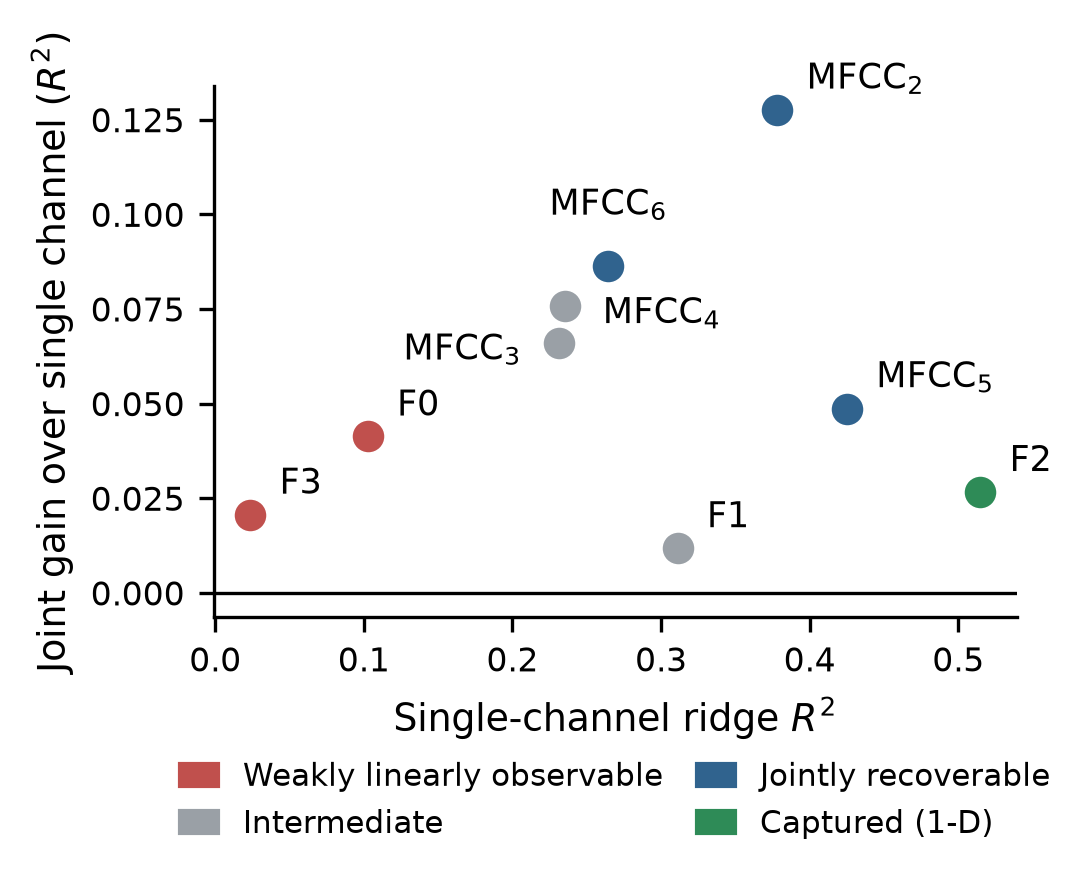
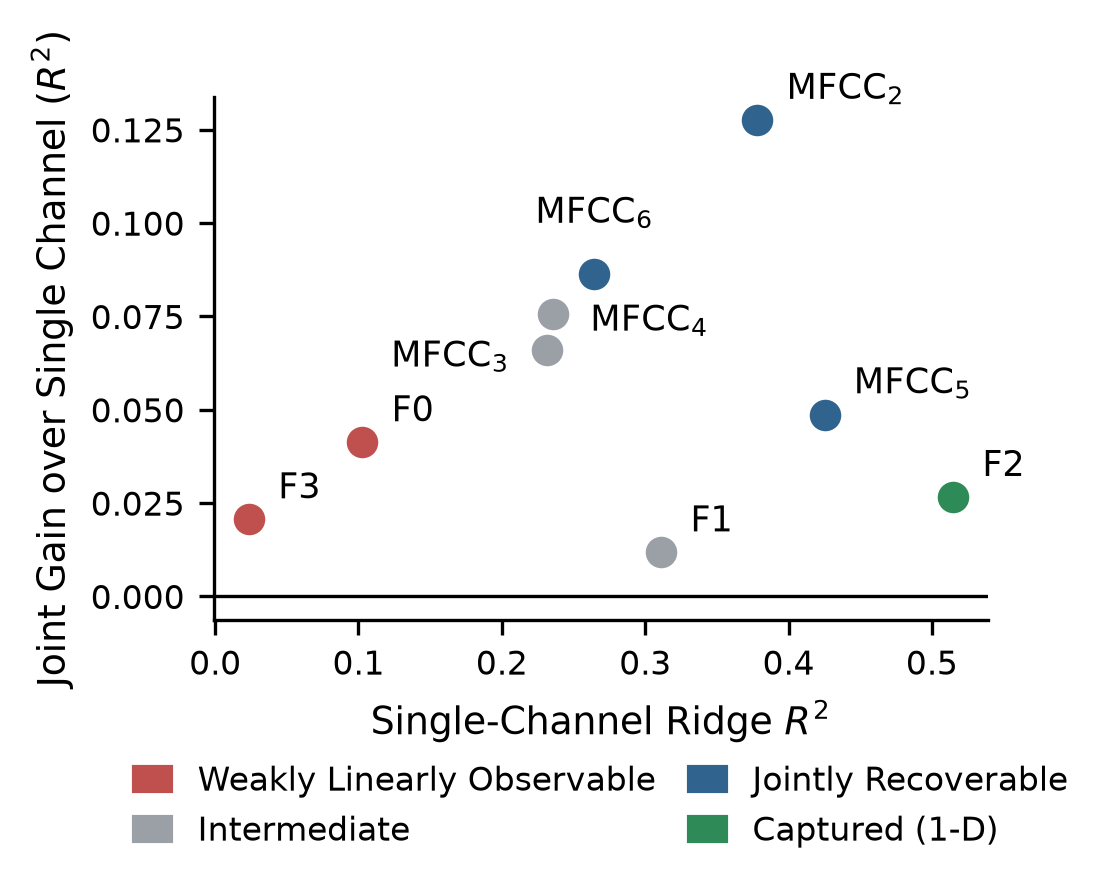
Redesign Fig. 2 and fix axis-label case across the figure set
Fig. 2 (training-set size) was a single bare curve with a dashed line and
a lot of empty space. It is now drawn in the same language as the other
data figures: the acoustic model is a band carrying its own spread, the
deficit between the two is shaded, and the remaining gap is measured
once at the last condition. Figure is 3.5 x 3.0 in instead of 3.5 x 2.6.

Axis labels and in-figure labels to academic Title Case throughout the
two generators (Fig. 2, 3, 4, 5 and the non-manuscript panels):
  Single-Channel Ridge R2 / Joint Gain over Single Channel (R2)
  Calibration Utterances (k) / Shapley Value (Accuracy Points)
  Tone Accuracy, Layer Depth, Probe Accuracy, Groups Removed/Added,
  Predicted Place, True Place
plus the Fig. 5 legend entries (Weakly Linearly Observable,
Jointly Recoverable), whose font size went 7.5 -> 8.0 to survive print.

All figures were saved through figcheck and passed.

diff --git a/src/paper_figures.py b/src/paper_figures.py
@@ -239,9 +239,9 @@ def grouped_confusion(out_path):
                 v = m[i, j]
                 ax.text(j, i, f"{v:.0f}", ha="center", va="center", fontsize=6.6,
                         color="white" if v > 55 else "0.2")
-        ax.set_xlabel("Predicted place")
+        ax.set_xlabel("Predicted Place")
         if key == "ema_only":
-            ax.set_ylabel("True place")
+            ax.set_ylabel("True Place")
         ax.text(0.5, 1.03, f"({letter})", transform=ax.transAxes, ha="center",
                 va="bottom", fontsize=9, fontweight="bold")
     fig.colorbar(im, ax=axes, fraction=0.025, pad=0.02,
@@ -277,7 +277,7 @@ def tone_control(out_path):
         ax.set_xticks(x)
         ax.set_xticklabels(labels)
         ax.set_ylim(0, 102)
-        ax.set_ylabel("Tone accuracy (%)")
+        ax.set_ylabel("Tone Accuracy (%)")
         _panel(ax, letter)
 
     tw = _load(os.path.join(RUNS_DIR, "tone", "tone_within_syllable.json"))
@@ -319,7 +319,7 @@ def shapley_stability(out_path):
     ax.set_yticks(range(len(groups)))
     ax.set_yticklabels([f"{g} {short[g]}" for g in groups], fontsize=8)
     ax.axvline(0, color="0.4", lw=0.8)
-    ax.set_xlabel("Shapley value (accuracy points)")
+    ax.set_xlabel("Shapley Value (Accuracy Points)")
     ax.legend(handles=[Patch(color=EMA_C, label="EMA"),
                        Patch(color=ACOUSTIC_C, label="Acoustic")],
               frameon=False, loc="lower right")
@@ -345,8 +345,8 @@ def _probing(out_path, src, letter):
         ax.plot(range(len(stages)), ys, marker="o", label=p.capitalize())
     ax.set_xticks(range(len(stages)))
     ax.set_xticklabels(stage_labels, fontsize=7.5)
-    ax.set_xlabel("Layer depth")
-    ax.set_ylabel("Probe accuracy (%)")
+    ax.set_xlabel("Layer Depth")
+    ax.set_ylabel("Probe Accuracy (%)")
     ax.set_ylim(0, 105)
     ax.legend(frameon=False, loc="lower right", fontsize=7.5)
     _panel(ax, letter)
@@ -373,7 +373,7 @@ def faithfulness(out_path):
     for name, style in styles.items():
         ax1.plot(xs, np.array(d["deletion"][name]["mean"]) * 100, style,
                  label=name.capitalize(), markersize=4)
-    ax1.set_xlabel("Groups removed")
+    ax1.set_xlabel("Groups Removed")
     ax1.set_ylabel("Accuracy (%)")
     ax1.set_xlim(0, n)
     ax1.set_ylim(0, 100)
@@ -387,7 +387,7 @@ def faithfulness(out_path):
     labels = ["EMA"] + [g.capitalize() for g in d["insertion_groups_added"]]
     ax2.set_xticks(xi)
     ax2.set_xticklabels(labels, rotation=30, ha="right", fontsize=7.5)
-    ax2.set_xlabel("Groups added (Shapley order)")
+    ax2.set_xlabel("Groups Added (Shapley Order)")
     ax2.set_ylabel("Accuracy (%)")
     ax2.set_ylim(0, 100)
     _panel(ax2, "(b)")
@@ -404,11 +404,11 @@ def mechanistic(out_path):
     ys = [r["joint_ridge_r2_in"] - r["single_ridge_r2_in"] for r in table]
     names = [r["acoustic_feature"].replace("MFCC_", "MFCC") for r in table]
     mech = {
-        "F0": ("Weakly linearly observable", "#C0504D"),
-        "F3": ("Weakly linearly observable", "#C0504D"),
-        "MFCC2": ("Jointly recoverable", "#30638E"),
-        "MFCC5": ("Jointly recoverable", "#30638E"),
-        "MFCC6": ("Jointly recoverable", "#30638E"),
+        "F0": ("Weakly Linearly Observable", "#C0504D"),
+        "F3": ("Weakly Linearly Observable", "#C0504D"),
+        "MFCC2": ("Jointly Recoverable", "#30638E"),
+        "MFCC5": ("Jointly Recoverable", "#30638E"),
+        "MFCC6": ("Jointly Recoverable", "#30638E"),
         "F2": ("Captured (1-D)", "#2E8B57"),
     }
     inter = ("Intermediate", "#9AA0A6")
@@ -429,13 +429,13 @@ def mechanistic(out_path):
         ax.annotate(disp, (x, y), textcoords="offset points", xytext=(dx, dy),
                     fontsize=8.5, ha=ha, va=va)
     ax.axhline(0, color="k", lw=0.8, zorder=1)
-    ax.set_xlabel("Single-channel ridge $R^2$")
-    ax.set_ylabel("Joint gain over single channel ($R^2$)")
-    order = ["Weakly linearly observable", "Intermediate",
-             "Jointly recoverable", "Captured (1-D)"]
+    ax.set_xlabel("Single-Channel Ridge $R^2$")
+    ax.set_ylabel("Joint Gain over Single Channel ($R^2$)")
+    order = ["Weakly Linearly Observable", "Intermediate",
+             "Jointly Recoverable", "Captured (1-D)"]
     ax.legend(handles=[Patch(color=seen[l], label=l) for l in order if l in seen],
               frameon=False, loc="upper center", bbox_to_anchor=(0.5, -0.22),
-              ncol=2, fontsize=7.5, columnspacing=1.1, handlelength=1.2)
+              ncol=2, fontsize=8.0, columnspacing=1.0, handlelength=1.1)
     fig.tight_layout()
     _save_fig(fig, out_path, bbox_inches="tight")
     plt.close(fig)

diff --git a/scripts/make_scaling_figure.py b/scripts/make_scaling_figure.py
@@ -1,8 +1,13 @@
-"""Training-set-size curve for the TASLP manuscript (single panel).
+"""Training-set-size curve for the TASLP manuscript (Fig. 2).
 
 Reads the EMA-only BiLSTM speaker sweep produced by ``scripts/run_scaling.py``
-(``runs/scaling/spk_k*.json`` plus optional ``_s1`` extra-seed files) and writes
-a single-column figure in the same style as the other data panels.
+(``runs/scaling/spk_k*.json`` plus optional ``_s1`` extra-seed files).
+
+Drawn in the same language as the other data figures: two colours, no grid, no
+in-plot title, capped error bars, open frame. What fills the panel is content
+rather than decoration: the acoustic model is a band carrying its own spread,
+the deficit between the two is shaded, and the remaining gap is measured once at
+the right-hand end.
 
 Usage::
 
@@ -26,13 +31,17 @@ from src import figcheck  # noqa: E402
 REPO = os.path.dirname(os.path.dirname(os.path.abspath(__file__)))
 RUNS = os.path.join(REPO, "runs", "scaling")
 OUT_DEFAULT = os.path.join(REPO, "paper", "illustrations")
-ACOUSTIC = 88.28            # full 106-D model, 2 seeds (docs/STATUS.md)
+
+# Full 106-D acoustic model on the same folds: 88.28 +- 3.36 over 6 folds x 2 seeds
+# (paper/results/exp1_ceilings.json).
+ACOUSTIC, ACOUSTIC_SD = 88.28, 3.36
 
 EMA_C = "#3B6FB6"
 ACO_C = "#D07A3A"
-GREY = "#7A7A7A"
+INK = "#333333"
 plt.rcParams.update({
     "font.size": 9, "axes.spines.top": False, "axes.spines.right": False,
+    "axes.edgecolor": "#4D4D4D", "axes.linewidth": 0.8,
     "xtick.labelsize": 8.5, "ytick.labelsize": 8.5,
     "figure.dpi": 300, "savefig.dpi": 300, "font.family": "DejaVu Sans",
 })
@@ -66,30 +75,49 @@ def main():
     m, s = zip(*[stats_cfg(f"spk_k{k:02d}") for k in ks])
     x = np.arange(len(ks))
 
-    fig, ax = plt.subplots(figsize=(3.5, 2.6))
-    ax.axhline(ACOUSTIC, color=ACO_C, ls=(0, (4, 3)), lw=0.9, zorder=1)
-    ax.text(-0.45, ACOUSTIC + 0.6, "with acoustics (88.3)",
-            color=ACO_C, fontsize=7, ha="left", va="bottom")
+    fig, ax = plt.subplots(figsize=(3.5, 3.0))
 
-    ax.errorbar(x, m, yerr=s, fmt="-o", color=EMA_C, ms=4, lw=1.2,
-                capsize=2.5, elinewidth=1.0, zorder=3)
+    # Acoustic model as a band, so the reference carries the spread of its own runs.
+    ax.axhspan(ACOUSTIC - ACOUSTIC_SD, ACOUSTIC + ACOUSTIC_SD,
+               color=ACO_C, alpha=0.13, lw=0, zorder=0)
+    ax.axhline(ACOUSTIC, color=ACO_C, ls=(0, (4, 3)), lw=1.0, zorder=1)
+    ax.fill_between(x, m, ACOUSTIC, color=ACO_C, alpha=0.07, lw=0, zorder=0)
+
+    ax.errorbar(x, m, yerr=s, fmt="-o", color=EMA_C, ms=4.6, lw=1.4,
+                capsize=2.8, elinewidth=1.0, capthick=1.0, zorder=3)
     for xi, mi, si in zip(x, m, s):
-        ax.annotate(f"{mi:.1f}", (xi, mi), textcoords="offset points",
-                    xytext=(0, 7 + si * 4.4), ha="center", va="bottom",
-                    fontsize=8, color=EMA_C)
+        ax.annotate(f"{mi:.1f}", (xi, mi + si), textcoords="offset points",
+                    xytext=(0, 4), ha="center", va="bottom",
+                    fontsize=7.6, color=EMA_C)
+
+    # The remaining deficit, measured once at the last condition. The caption states
+    # the same number, so this is a pointer rather than a second claim.
+    gap = ACOUSTIC - m[-1]
+    xa = x[-1] + 0.30
+    ax.annotate("", xy=(xa, ACOUSTIC), xytext=(xa, m[-1]),
+                arrowprops=dict(arrowstyle="|-|", color=INK, lw=0.9,
+                                shrinkA=1.5, shrinkB=1.5))
+    ax.text(xa + 0.09, (ACOUSTIC + m[-1]) / 2, f"{gap:.1f}",
+            ha="left", va="center", fontsize=7.4, color=INK)
+
+    ax.text(-0.44, ACOUSTIC + ACOUSTIC_SD + 0.5,
+            f"Acoustic Model ({ACOUSTIC:.1f} $\\pm$ {ACOUSTIC_SD:.1f})",
+            color=ACO_C, fontsize=7.2, ha="left", va="bottom")
 
     ax.set_xticks(x)
     ax.set_xticklabels([str(k) for k in ks])
-    ax.set_xlim(-0.55, len(ks) - 0.45)
-    ax.set_xlabel("Training speakers")
+    ax.set_xlim(-0.62, len(ks) + 0.12)
+    ax.set_xlabel("Training Speakers")
     ax.set_ylabel("Accuracy (%)")
-    ax.set_ylim(55, 92)
+    ax.set_ylim(56, 93.6)
     ax.set_yticks([60, 70, 80, 90])
 
-    fig.tight_layout(pad=0.3)
+    fig.tight_layout(pad=0.35)
     p = os.path.join(args.out, "fig_scaling.png")
     figcheck.save(fig, p, bbox_inches="tight")
     print("wrote", p)
+    print("  " + "  ".join(f"{k} spk {mi:.2f}+-{si:.2f}" for k, mi, si in zip(ks, m, s)))
+    print(f"  remaining gap at {ks[-1]} speakers: {gap:.2f} points")
     plt.close(fig)
 
 

diff --git a/scripts/make_taslp_figures.py b/scripts/make_taslp_figures.py
@@ -68,7 +68,7 @@ def fig_calibration():
     ax.errorbar(kx, ro, yerr=re, fmt="-s", color=ACO_C, ms=3.5, lw=1.2,
                 capsize=2, label="Robust $z$")
     ax.set_xticks(kx); ax.set_xticklabels(["1", "2", "3", "5", "10", "20", "All"])
-    ax.set_xlabel("Calibration utterances ($k$)")
+    ax.set_xlabel("Calibration Utterances ($k$)")
     ax.set_ylabel("Accuracy (%)")
     ax.set_ylim(20, 84)
     ax.legend(frameon=False, fontsize=8, loc="lower right")
@@ -98,7 +98,7 @@ def fig_shapley():
     ax.set_yticks(y)
     ax.set_yticklabels([f"{g} {names[g]}" for g in order], fontsize=8)
     ax.axvline(0, color="0.4", lw=0.8)
-    ax.set_xlabel("Shapley value (accuracy points)")
+    ax.set_xlabel("Shapley Value (Accuracy Points)")
     ax.set_xlim(-4, 58)
     ax.legend(handles=[Line2D([], [], marker="s", ls="", color=EMA_C, label="EMA"),
                        Line2D([], [], marker="s", ls="", color=ACO_C, label="Acoustic")],
@@ -125,7 +125,7 @@ def fig_crosscorpus():
     for i, (g, bi, si) in enumerate(zip(gs, b, s)):
         ax.annotate(g, (bi, si), textcoords="offset points",
                     xytext=(4, 3) if i % 2 == 0 else (4, -9), fontsize=7.5)
-    ax.set_xlabel("Cantonese Shapley (pts)"); ax.set_ylabel("Mandarin Shapley (pts)")
+    ax.set_xlabel("Cantonese Shapley (Points)"); ax.set_ylabel("Mandarin Shapley (Points)")
     ax.set_xlim(0, mx); ax.set_ylim(0, mx)
     ax.set_title("(a) Group attribution ($\\rho=0.74$)", fontsize=9.5)
 
@@ -140,7 +140,7 @@ def fig_crosscorpus():
     for xi, v in zip(xx + w / 2, mand):
         ax.text(xi, v + 0.4, f"+{v:.1f}", ha="center", fontsize=7.5)
     ax.set_xticks(xx); ax.set_xticklabels(lab, fontsize=8)
-    ax.set_ylabel("Accuracy gain (pts)"); ax.set_ylim(0, 24)
+    ax.set_ylabel("Accuracy Gain (Points)"); ax.set_ylim(0, 24)
     ax.legend(frameon=False, fontsize=8)
     ax.set_title("(b) Replicated levers", fontsize=9.5)
 
